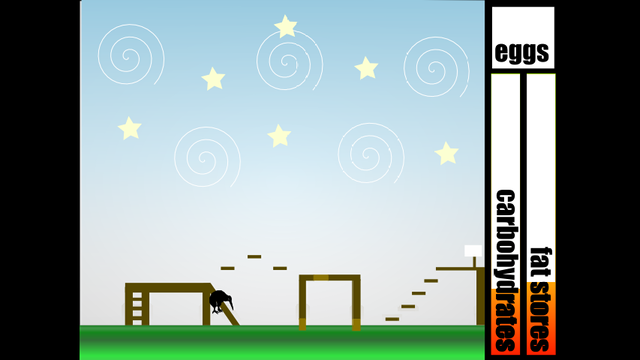
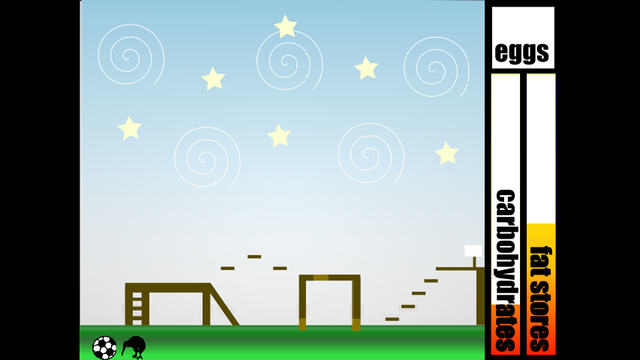
fix(kiwi_soccer): draw the soccer ball and let the kiwi kick it (#128) (#130)
The default loader Ball was in the physics but never drawn: only the TEST_ROOM
(menu P from 93988f2 until 4c6d7d2, 2005-09-03) attached data/soccer.png.

- Direct draws the ball with the original soccer.png, centred and unrotated like
  the test room's BlockSprite.
- The ball is a round body (radius HERO.RADIUS, ODE default mass 1 / inertia 1)
  with a 1-row box-circle contact and contact-point friction, so it rolls. Kicked
  from rest it leaves at ~1.4-2x the kiwi's speed and rolls off the floor, as in a
  pyODE run of the original.
- No goals: CODE.GOAL/#FF0000 exist but no level or commit ever scored one.
- Glass walls stay missing: only the pit is referenced and PyODE frees the rest.
- Sprites off the stage are clipped instead of showing in the letterbox.
- test_kiwi_soccer: ball drawn, lands in view, rests, gets kicked ahead of the
  kiwi and rolls. Preview recaptured mid-kick. PORT.md records the history search.

diff --git a/games/kiwi_soccer/PORT.md b/games/kiwi_soccer/PORT.md
@@ -69,8 +69,11 @@ and read the screen and the ODE state each tick.
     tens of pixels, again and again. That bouncing is most of what the game looks like.
   - The friction cap is next to nothing for the kiwi, so air drag does all the slowing.
     For the mass-1 ball the same floor is stiff, and ERP pops it high into the air.
-- **Ball:** `outside-geom.svg` has no arcs, so `loader` adds the default `Ball`: an unseen
-  32×32 block with ODE's default mass 1, dropped at (50, 50).
+- **Ball:** `outside-geom.svg` has no arcs, so `loader` adds the default `Ball`: a 32×32
+  ODE block with ODE's default mass 1, dropped at (50, 50). In this build it is never drawn
+  (see "The soccer ball" below). It falls, bounces twice and comes to rest on the floor at
+  x 50. When the kiwi runs into it, it shoots off at about 1.7× the kiwi's speed (−168 px/s
+  in a pyODE run where the kiwi arrives at ~100 px/s), slides off the left end and falls.
 - **Controller:**
   - A key press posts the GAME event, then held keys re-post every 10 ticks.
   - The Controller that LevelList created is never released (eventnet handlers are never
@@ -92,6 +95,35 @@ and read the screen and the ODE state each tick.
   - The kiwi keeps gaining fat, so the orange fat bar fills in over a minute or so.
 - **Sound:** `1takeimprov.ogg` loops from start-up. `bip.ogg` plays on every jump event.
 
+## The soccer ball: history
+
+The source tree was searched for later ball, goal and kick code (`git log -p -S ball`,
+`-S GOAL`, `-S soccer` over `pyweek/`; sabren/blaze has only `master` and no tags).
+
+- **93988f2** (michal, 2005-09-03 11:04 UTC, "added soccer ball, messed with constants")
+  adds `data/soccer.png` and `IMAGE.SOCCER`. The `TEST_ROOM` block in `states.Game` puts a
+  32×32 block at (470, 380) and gives it a `BlockSprite` of `soccer.png`: centred on the
+  rounded body position and never rotated.
+- From 93988f2 until **4c6d7d2** (22:36 UTC the same day), menu P opened `Game(display)`,
+  which is that test room: the kiwi and a visible soccer ball on the plain `game.png`.
+  4c6d7d2 sends P to the LevelList instead, so the test room becomes unreachable. The last
+  commit before the deadline is ebe2f58 (23:52 UTC).
+- **aecb267** adds `CODE.BALL = 0`, `CODE.HERO = 1` ("UGLY HACK ROOMPHYSICS.COLLIDE") and
+  `CODE.GOAL = 4` ("the goal for the soccer ball"), plus colours `#0000FF` (ball) and
+  `#FF0000` (goal) for the SVG loader. No room SVG uses either colour, and no commit ever
+  has goal, kick or scoring logic. The collide hack the comment refers to was never written.
+- **1556f19** (eykd) adds `ball.py`: `room.addBlock` with size `HERO.RADIUS`, no `setMass`.
+- After PyWeek, micah's `ex1.py` (2006-01-28/30) is a separate pyODE demo that blits
+  `soccer.png` at an ODE sphere and pushes it with the arrow keys. d3c6d2a removes
+  `ball.bmp` ("using soccer.png instead").
+- Nothing else turned up: "Kick him into the other guy" is `pyweek4/`; "like a soccer field"
+  in `eventtest.py` is sabren explaining eventnet; the concept SVGs talk about a flightless
+  bird, food, trampolines and eggs, not soccer.
+- **Outside this repo:** PyWeek 1 ran on mechanicalcat.net and pyweek.org has no pages for
+  it (pyweek.org/e/Kiwi/ is another team's PyWeek 3 game). The Wayback Machine timed out
+  from here. A code search of the sabren, tangentstorm, tangentscraps, tangentstream and
+  tangentcode accounts finds only this repo. No final submission zip was found.
+
 ## Direct edition (`direct/`)
 
 - **`kiwi_logic.gd`** ports these line for line:
@@ -102,15 +134,20 @@ and read the screen and the ODE state each tick.
   - the Controller repeat
   - Scores placement
 - **`kiwi_logic.gd` `World`** re-implements the slice of pyODE this room uses:
-  - Two 32×32 box bodies (kiwi and ball) and the static floor.
-  - Separating-axis box contacts. Each contact is 4 rows (dBoxBox face contact), with the
-    dWorldStep row equations `J·v' = ERP·depth/h − CFM·λ` (λ ≥ 0) and a friction row capped
-    at ±100 per row, solved by projected Gauss–Seidel.
+  - The 32×32 kiwi box, the soccer ball and the static floor.
+  - The ball is a round body of radius 16 (`HERO.RADIUS`) with ODE's default mass 1 and
+    inertia 1, so friction at the contact point makes it roll.
+  - Separating-axis box contacts, 4 rows each (dBoxBox face contact); box–circle contacts
+    are 1 row (dSphereBox). Rows use the dWorldStep equations `J·v' = ERP·depth/h − CFM·λ`
+    (λ ≥ 0) with a friction row capped at ±100 per row, solved by projected Gauss–Seidel.
   - Semi-implicit Euler, two 0.01 s steps per tick, forces cleared after each step.
-  - Rotation is not modelled: the ODE box stays within 0.001 rad.
+  - The kiwi does not rotate: the ODE box stays within 0.001 rad.
 - **Parity:** under the same key script as a pyODE run of the original, blood and fat match
   tick for tick. Over 260 ticks the kiwi stays within 0.7 px in x and 10 px in y (bounce
-  phase drift), and the ball within 0.1 px (`tools/test_kiwi_soccer.gd`).
+  phase drift). Kicked from rest, the ball leaves at ~1.4–2× the kiwi's speed (pyODE ~1.7×)
+  and rolls off the left end, as in the pyODE run (`tools/test_kiwi_soccer.gd`).
+- **Ball:** drawn with `img/soccer.png` the way the test room drew it: centred on the
+  rounded body position, unrotated.
 - **`game.gd` / `game.tscn`:**
   - All the states above on a 640×480 stage (`GameRegistry.fit_stage`, nearest filter,
     letterboxed).
@@ -126,7 +163,8 @@ and read the screen and the ODE state each tick.
     original's first game.
 - **Assets:**
   - `img/`: `menu_img.png`, `help.png`, `credits.png`, `high_scores.png`, `game.png`,
-    `statustxt.png`, `outside-back.png` and `kiwi/{left,right}.png`, all unchanged.
+    `statustxt.png`, `soccer.png`, `outside-back.png` and `kiwi/{left,right}.png`, all
+    unchanged.
   - `sfx/bip.ogg` is unchanged.
   - `sfx/1takeimprov.ogg` is re-encoded to mono 22 kHz Vorbis q1, from 3.4 MB to 0.35 MB
     (web size gate).
@@ -134,8 +172,24 @@ and read the screen and the ODE state each tick.
 
 ### Differences from the original
 
-- A 2D re-implementation stands in for 3D pyODE: no rotation, and an iterative solve instead
-  of ODE's Dantzig LCP. The bounce phase drifts by a few pixels over seconds.
+- A 2D re-implementation stands in for 3D pyODE: no kiwi rotation, and an iterative solve
+  instead of ODE's Dantzig LCP. The bounce phase drifts by a few pixels over seconds.
+- **Soccer ball:**
+  - It is drawn. In the shipped build it was an invisible body: only the unreachable test
+    room attached `soccer.png`.
+  - It is round, as asked. The ODE geom was a 32×32 box (`addBlock`) that tumbled when
+    kicked. Because the floor's ERP pop is chaotic for a mass-1 body, the round ball's
+    bounces differ from pyODE's: it settles at ~10.8 s instead of ~8.1 s. The kick (fast,
+    then off the end) matches.
+  - It stays in `outside` at the default (50, 50). The 11:04–22:36 UTC test room, with the
+    ball at (470, 380) on a plain background, is not restored.
+- **No goals or scoring.** `CODE.GOAL` and the `#FF0000` colour exist, but no level has a goal
+  and no code ever scored one. Enhanced could add them.
+- **No glass walls (kept).** `_setupGlass`'s docstring ("glass walls holding all the data in")
+  shows the intent, but since 93ee1c7 (2005-09-01) only the pit is referenced, and PyODE
+  1.2.1 (2005) already destroyed unreferenced geoms. The walls never existed at runtime, so
+  the kiwi and the ball still fall off either end. Sprites off the stage are clipped, as in
+  pygame, not shown in the letterbox.
 - The game runs at a fixed 50 ticks/s. The original had no frame limiter and ran as fast as
   the machine allowed.
 - **Food:** `Food(5, 5)` also adds a new 32×32 ODE body at (0, 0) every tick. Hundreds pile

diff --git a/games/kiwi_soccer/README.md b/games/kiwi_soccer/README.md
@@ -4,7 +4,9 @@ Team Trailblazer's first PyWeek entry (PyWeek #1, Aug–Sep 2005), written in py
 A kiwi runs and hops along the bottom of the "outside" room. Its weight comes from a working
 metabolism: running and jumping burn blood sugar ("carbohydrates"), insulin moves sugar into
 "fat stores", and fat sets the kiwi's mass. The game was never finished: there are no goals,
-eggs or food to pick up, and a soccer ball that drops in but is never drawn.
+eggs or food to pick up. The soccer ball was in the physics but never drawn in the
+shipped build; this port draws it with the original `soccer.png`, and the kiwi can knock it
+off the end of the floor.
 
 See [PORT.md](PORT.md) and arcade issue #128.
 
